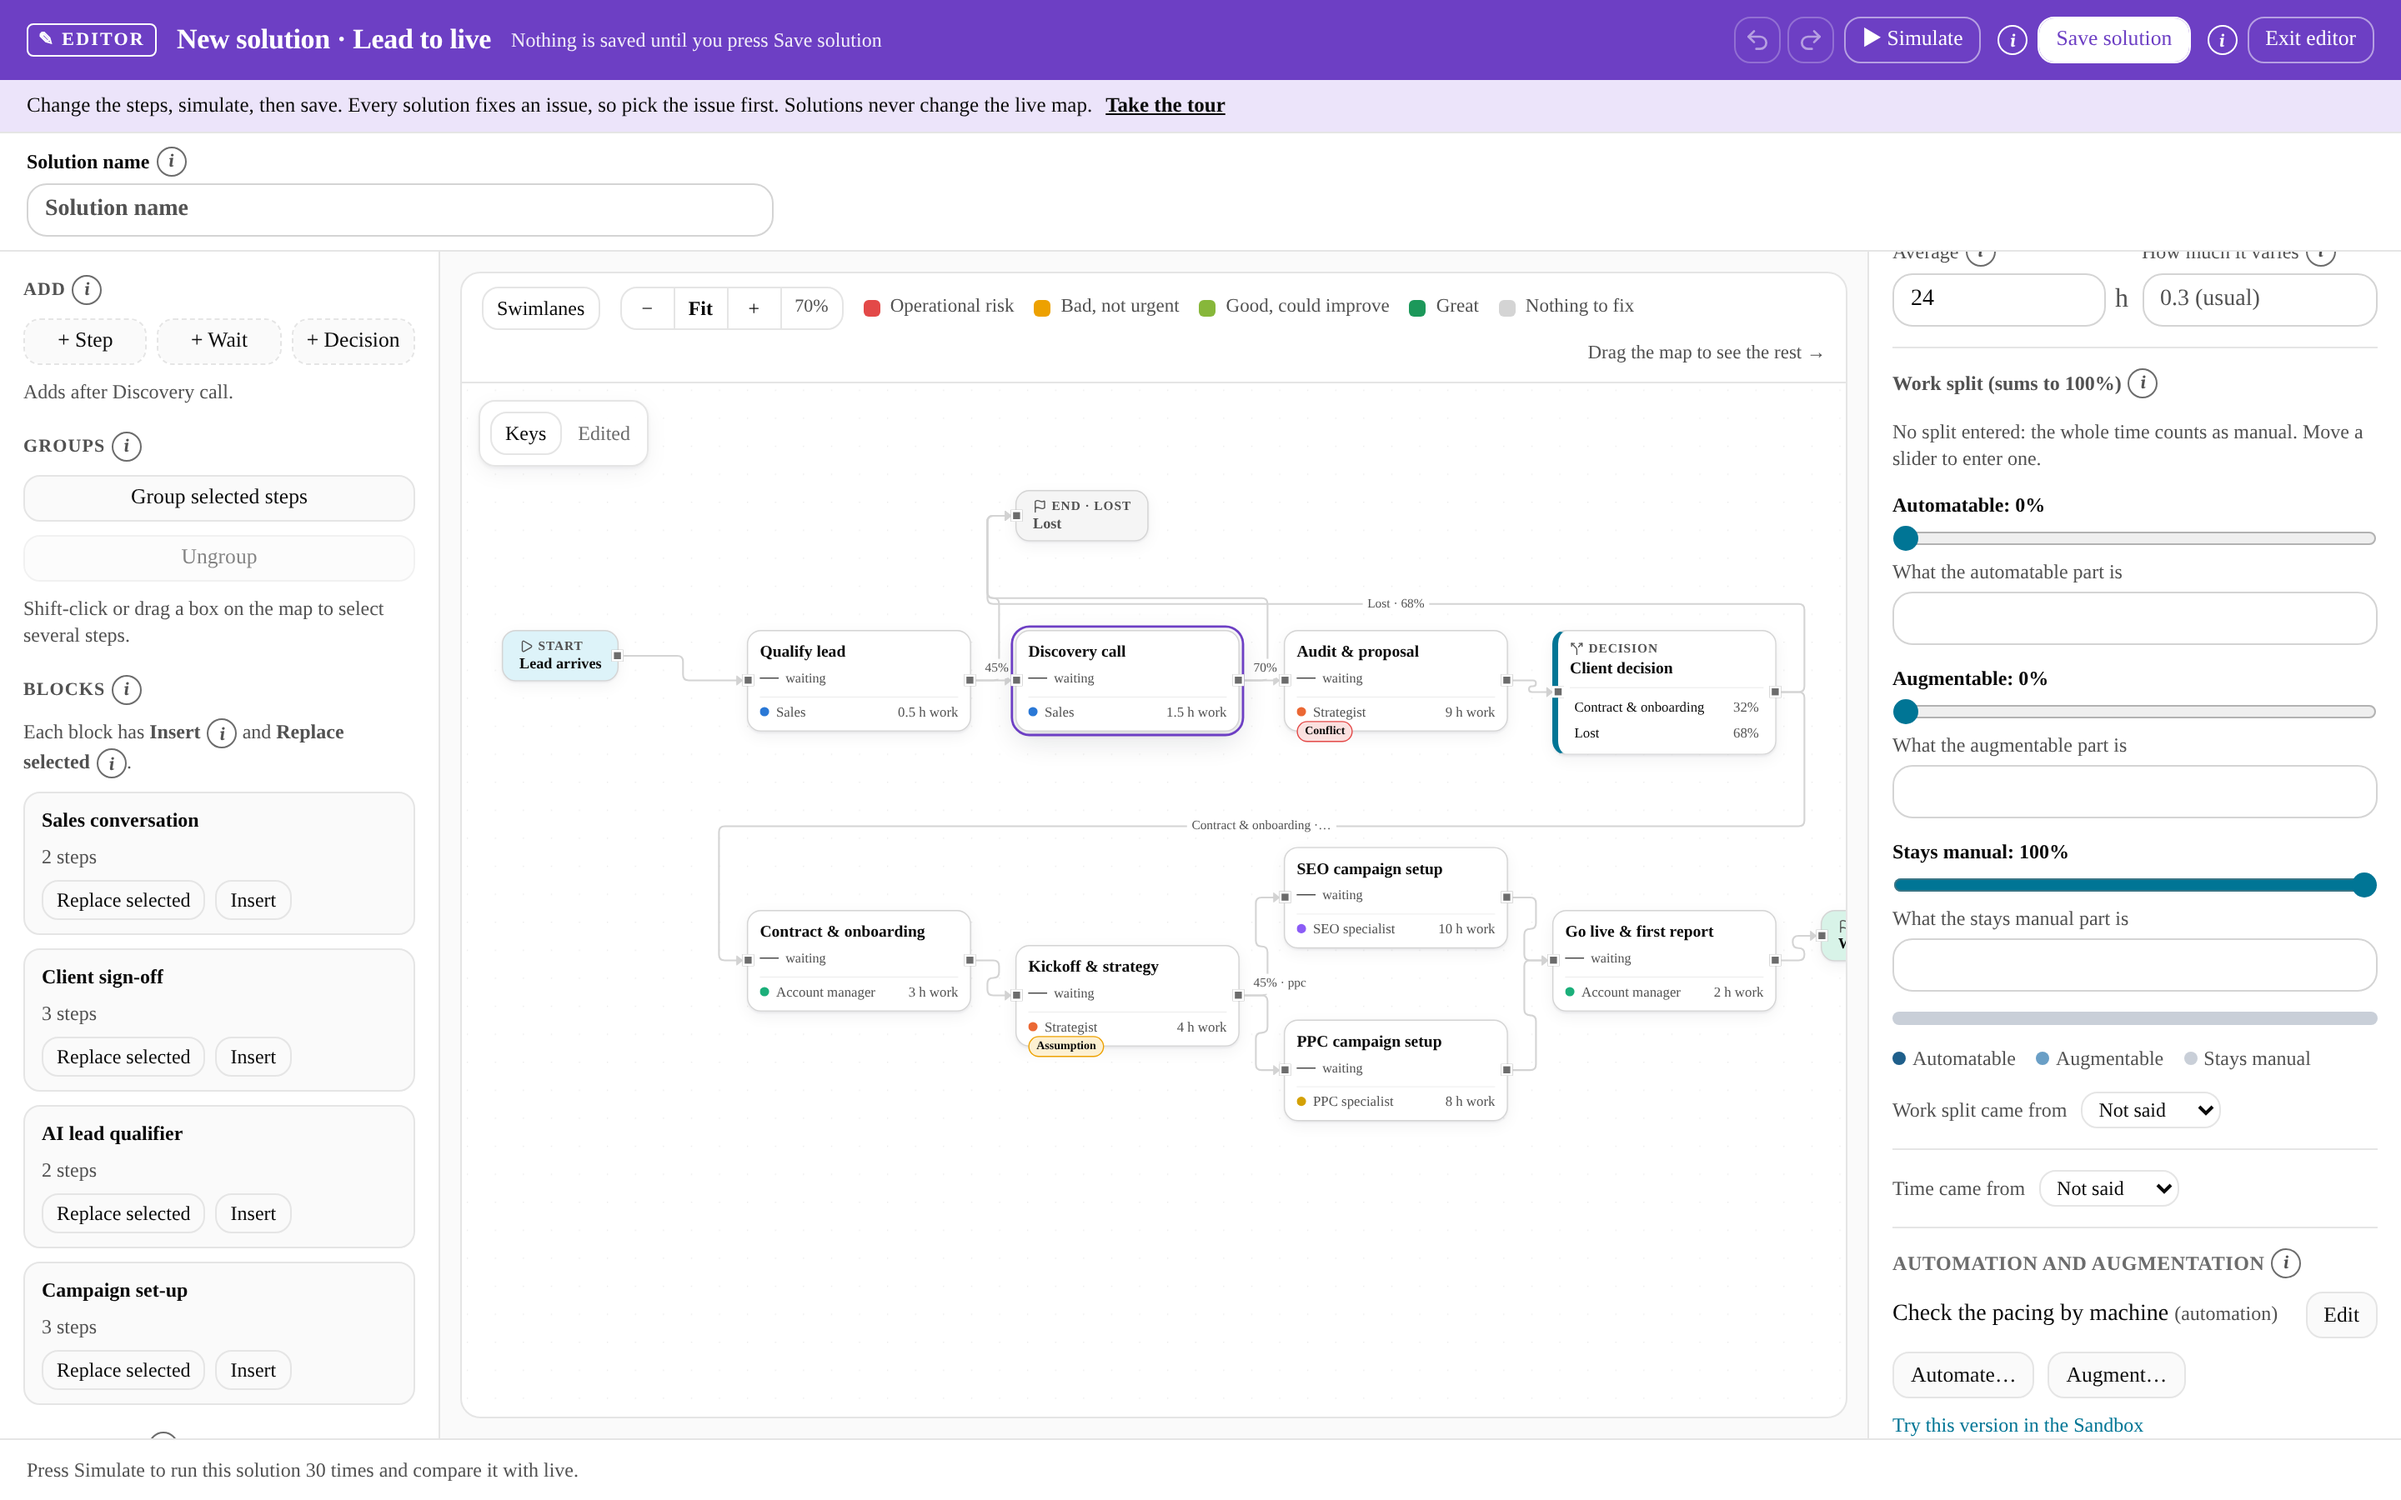
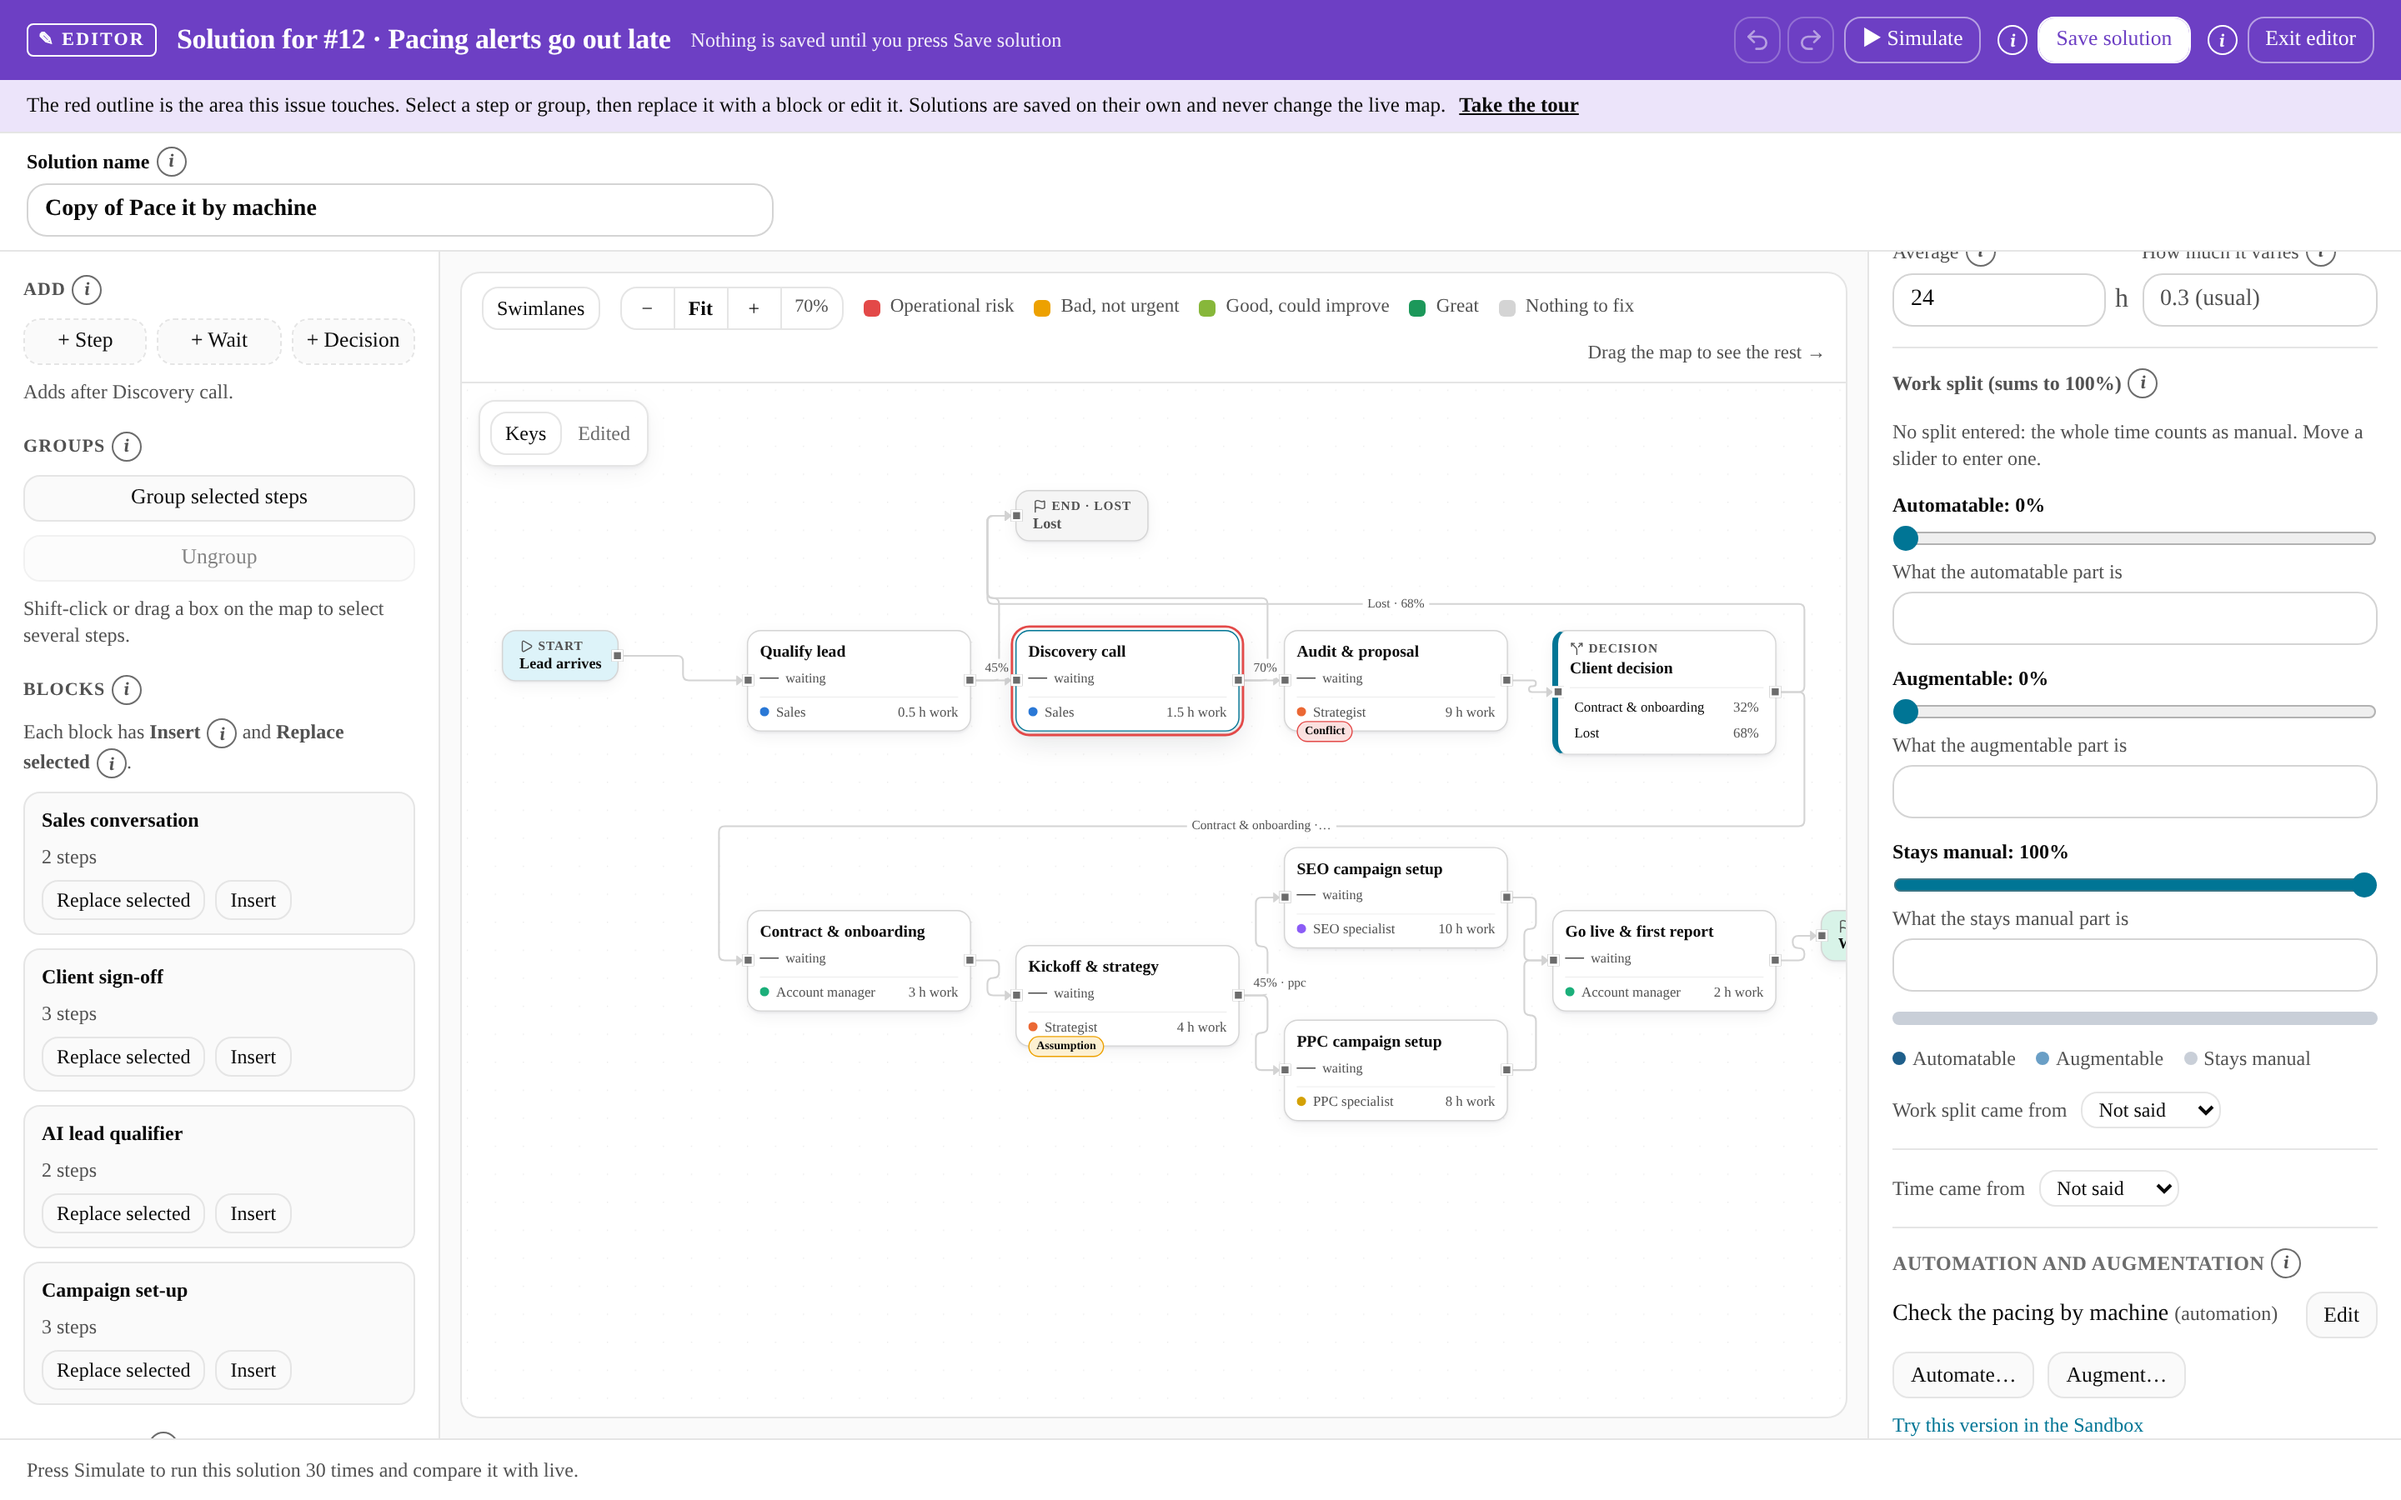
Saving from a solution's version carries its automations into the copy (server side); shots open a saved solution
Claude-Session: https://claude.ai/code/session_0162F8LCHyVHtnvHZGm5SLYm

diff --git a/apps/web/src/app/w/[slug]/solution-actions.ts b/apps/web/src/app/w/[slug]/solution-actions.ts
@@ -1,6 +1,6 @@
 "use server";
 
-import { applyStepChangeEdit, parseStepChanges, type BlockBundle, type Json, type ProcessBundle, type SolutionIssueRow, type SolutionRow, type StepChangeEdit, type StoredStepChange } from "@transpera-flow/db";
+import { applyStepChangeEdit, carryStepChanges, parseStepChanges, type BlockBundle, type Json, type ProcessBundle, type SolutionIssueRow, type SolutionRow, type StepChangeEdit, type StoredStepChange } from "@transpera-flow/db";
 import { randomUUID } from "node:crypto";
 import { sql } from "kysely";
 import { rpc } from "@transpera-flow/db/client";
@@ -45,8 +45,9 @@ function failure(e: unknown) {
 }
 
 /** Save a solution, with the issues it solves and the automatic verdict against each (worked out here). */
-export async function createSolution(workspaceId: unknown, input: unknown): Promise<SaveSolutionResult> {
+export async function createSolution(workspaceId: unknown, input: unknown, fromSolutionId?: unknown): Promise<SaveSolutionResult> {
   if (!isId(workspaceId)) return invalid;
+  if (fromSolutionId !== undefined && fromSolutionId !== null && !isId(fromSolutionId)) return invalid;
   const parsed = parseSolutionInput(input);
   if (!parsed.ok) return { status: "error", message: parsed.error };
   if (!(await getSessionUser())) return signedOut;
@@ -80,7 +81,20 @@ export async function createSolution(workspaceId: unknown, input: unknown): Prom
   } catch (e) {
     return failure(e);
   }
-  const solution = data as unknown as SolutionRow;
+  let solution = data as unknown as SolutionRow;
+  // A copy of a solution keeps its automations (D53): read from the stored source, not from what the browser sent, and only the effects on steps the copy still has.
+  if (typeof fromSolutionId === "string") {
+    const src = await db.selectFrom("solutions").select("step_changes").where("id", "=", fromSolutionId).where("workspace_id", "=", workspaceId).where("process_id", "=", v.processId).executeTakeFirst().catch(() => undefined);
+    const carried = carryStepChanges(parseStepChanges(src?.step_changes), new Set(v.copy.steps.map((s) => s.id)));
+    if (carried.length) {
+      try {
+        await db.updateTable("solutions").set({ step_changes: carried as unknown as Json }).where("id", "=", solution.id).execute();
+        solution = { ...solution, step_changes: carried };
+      } catch {
+        return { status: "error", message: "The solution was saved, but its automations couldn't be copied across. Open it from the Solutions list and add them again." };
+      }
+    }
+  }
   const saved = await db.selectFrom("solution_issues").select(SOLUTION_ISSUE_COLS).where("solution_id", "=", solution.id).execute().catch(() => []);
   return { status: "ok", solution, links: saved as unknown as SolutionIssueRow[] };
 }

diff --git a/packages/db/test/step-change-edit.test.ts b/packages/db/test/step-change-edit.test.ts
@@ -1,5 +1,5 @@
 import { afterAll, beforeAll, describe, expect, it } from "vitest";
-import { applyStepChangeEdit, loadSolutions, MAX_STEP_CHANGES, parseStepChanges, toEngineStepChanges, type SolutionRow, type StepChangeInput } from "../src";
+import { applyStepChangeEdit, carryStepChanges, loadSolutions, MAX_STEP_CHANGES, parseStepChanges, toEngineStepChanges, type SolutionRow, type StepChangeInput } from "../src";
 import { loadCapacityExample } from "../src/fixtures/capacity-example";
 import { addExampleIssues } from "../src/fixtures/capacity-example-issues";
 import { createTestDb, createUser, type TestDb } from "./harness";
@@ -104,5 +104,29 @@ describe("a change saved through the step panel", () => {
 
   it("row-level security decides who: a viewer's write changes no rows", async () => {
     expect((await writeAs(viewer.claims, [])).n).toBe(0);
+  });
+
+  it("a copy keeps its changes with the same ids, so the Sandbox model of the copy equals the source's when no steps changed", async () => {
+    const source = solution.step_changes;
+    const carried = carryStepChanges(source, stepIds);
+    expect(carried).toEqual(source);
+    const { n, stored } = await writeAs(owner.claims, carried);
+    expect(n).toBe(1);
+    for (const month of [1, 6]) {
+      expect(toEngineStepChanges({ id: "another-solution", step_changes: parseStepChanges(stored) }, month)).toEqual(toEngineStepChanges(solution, month));
+    }
+  });
+
+  it("a copy drops an effect on a deleted step, and a change left with no effects", () => {
+    const [a] = solution.step_changes;
+    const gone = "0b8f6f0e-6d0a-4d5e-9d57-2f1d1d2a9cff";
+    const keptStep = a!.effects[0]!.step;
+    const two = { ...a!, id: NEW_ID, effects: [...a!.effects, { step: gone, part: "augmentable" as const, factor: 2 }] };
+    const onlyGone = { ...a!, id: "0b8f6f0e-6d0a-4d5e-9d57-2f1d1d2a9c22", effects: [{ step: gone, part: "automatable" as const, remove: 0.5 }] };
+    const out = carryStepChanges([two, onlyGone], new Set([keptStep]));
+    expect(out).toHaveLength(1);
+    expect(out[0]!.id).toBe(NEW_ID);
+    expect(out[0]!.effects.every((e) => e.step === keptStep)).toBe(true);
+    expect(out[0]!.effects).toHaveLength(a!.effects.length);
   });
 });

diff --git a/apps/web/test/tour-harness/entry.tsx b/apps/web/test/tour-harness/entry.tsx
@@ -56,6 +56,7 @@ window.mountEditor = (options) => {
     for (let i = list.length; i < options.purposes; i++) list.push({ key: `c${String(i).padStart(8, "0")}`, name: `Purpose ${i + 1}`, description: "" });
     live.workspace = { ...live.workspace, settings: { ...live.workspace.settings, purposes: list } };
   }
+  const DISCOVERY_STEP = "e0000000-0000-4000-8000-000000000002";
   const SOLUTION = "a0000000-0000-4000-8000-0000000000aa";
   const changesOnSteps = options.solutionChanges
     ? { sandboxHref: "/sandbox?solution=a", changes: changesOnStepsOf(SOLUTION, options.solutionChanges), edit: { workspaceId: live.workspace.id, solutionId: SOLUTION, stepIds: live.steps.map((s) => s.id) } }
@@ -78,6 +79,9 @@ window.mountEditor = (options) => {
         onCreate: async () => ({ error: "Not available in this test." }),
       } : undefined}
       changesOnSteps={changesOnSteps}
+      // A saved solution's version opens with its own issue and name (as the app does for `?solution=`), not as a new solution.
+      issue={options.solutionChanges ? { id: "a0000000-0000-4000-8000-0000000000bb", number: 12, title: "Pacing alerts go out late", stepIds: [DISCOVERY_STEP], whole: false, target: { measure: null, now: null, goal: null } } : undefined}
+      solutionSeed={options.solutionChanges ? { id: SOLUTION, bundle: live, name: "Pace it by machine" } : undefined}
       tourDismissed={options.dismissed ?? false}
       historyHref="/history"
       exitHref="/"

diff --git a/apps/web/src/components/editor/editor-view.tsx b/apps/web/src/components/editor/editor-view.tsx
@@ -127,7 +127,7 @@ export function EditorView({
   /** Block mode only: a block of the library to edit (Q15); without it block mode starts on an empty map. */
   editBlock?: { id: string; name: string; description: string; bundle: BlockBundle };
   /** Solution mode opened from a solution's page ("Open in editor", `?solution=<id>`): the map starts as that solution's copy, not as live. */
-  solutionSeed?: { bundle: ProcessBundle; name: string };
+  solutionSeed?: { id?: string; bundle: ProcessBundle; name: string };
   /** The process library (B12): the workspace's processes, where each sits (live links), and the templates. */
   library?: { processes: LibraryProcess[]; templates: LibraryTemplate[]; /** Makes a process for the library; default in a workspace is the server action (a harness stands in). */ onCreate?: LibraryCreate };
 }) {
@@ -358,7 +358,7 @@ export function EditorView({
     else if (mode === "demo") {
       const made = addDemoSolution(checked.value);
       result = { status: "ok", ...made };
-    } else result = await createSolution(live.workspace.id, input);
+    } else result = await createSolution(live.workspace.id, input, solutionSeed?.id);
     setSolutionSaving(false);
     if (result.status === "error") return setSolutionError(result.message);
     router.push(exitHref);

diff --git a/packages/db/src/capacity-changes.ts b/packages/db/src/capacity-changes.ts
@@ -151,3 +151,16 @@ export function applyStepChangeEdit(solutionId: string, current: readonly Stored
   const stored: StoredStepChange = { ...(at < 0 ? { id: newId() } : old?.id ? { id: old.id } : {}), ...clean };
   return { ok: true, list: at < 0 ? [...current, stored] : current.map((c, i) => (i === at ? stored : c)) };
 }
+
+/**
+ * The changes a copy of a solution keeps (saving from the editor on a solution's version makes a copy): each change with only the effects on steps
+ * that are still in the copy, a change with none left dropped, every kept change with its own id (so the engine's id for it is the same).
+ */
+export function carryStepChanges(source: readonly StoredStepChange[], stepIds: ReadonlySet<string>): StoredStepChange[] {
+  const out: StoredStepChange[] = [];
+  for (const c of source) {
+    const effects = c.effects.filter((e) => stepIds.has(e.step)).map((e) => ({ ...e }));
+    if (effects.length) out.push({ ...c, effects, tiers: c.tiers ? [...c.tiers] : null });
+  }
+  return out;
+}

diff --git a/apps/web/src/components/editor/workspace-editor-page.tsx b/apps/web/src/components/editor/workspace-editor-page.tsx
@@ -91,7 +91,7 @@ export async function WorkspaceEditorPage({
       historyHref={`/w/${slug}/p/${processId}/history`}
       settingsHref={`/w/${slug}/settings`}
       exitHref={exit}
-      solutionSeed={fromSolution ? { bundle: bundleFromSolution(live, fromSolution), name: fromSolution.name } : undefined}
+      solutionSeed={fromSolution ? { id: fromSolution.id, bundle: bundleFromSolution(live, fromSolution), name: fromSolution.name } : undefined}
       processEditorHref={`${base}/edit?from=${encodeURIComponent(exit)}`}
       editBlock={editRow ? { id: editRow.id, name: editRow.name, description: editRow.description, bundle: readBlock(editRow.steps) } : undefined}
       blockEditorHref={`${base}/edit?mode=block&from=${encodeURIComponent(exit)}`}
